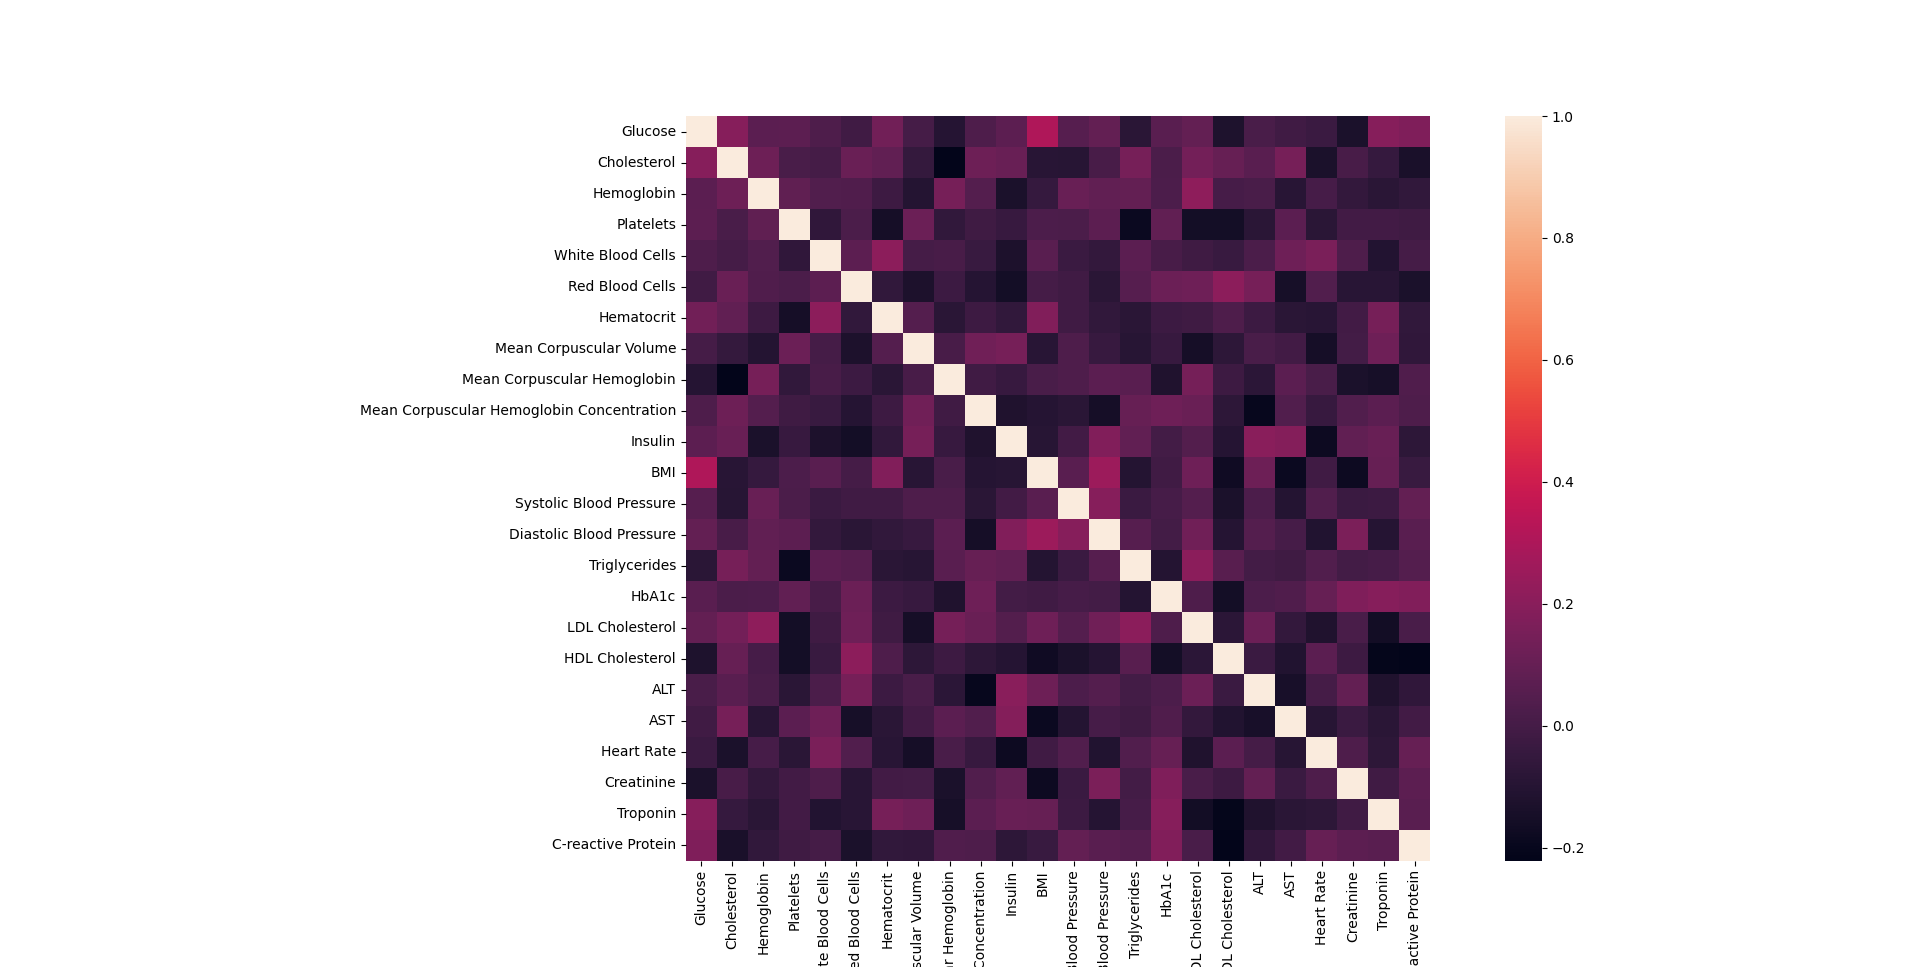
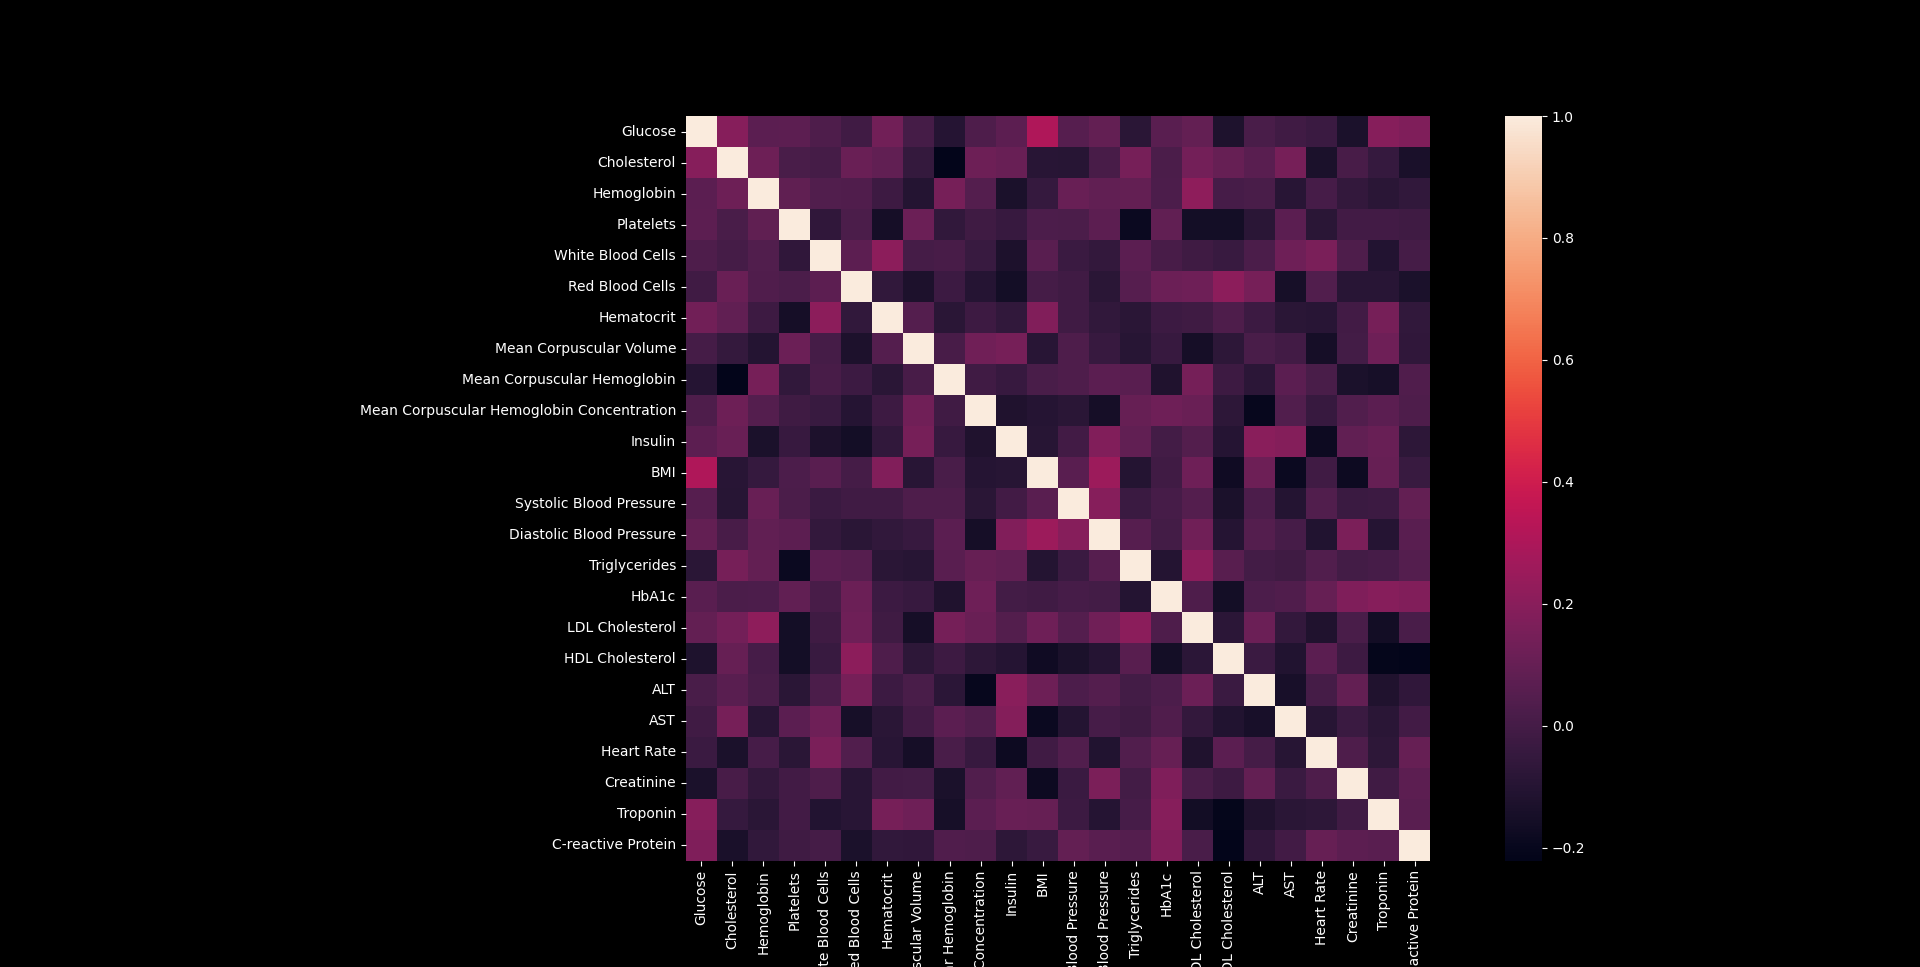
yes

diff --git a/React/my-app/src/App.css b/React/my-app/src/App.css
@@ -126,7 +126,87 @@
   30% { border-color: rgb(255, 255, 255) }
 }
 
+:root{
+  --clr-1: #53bcbd;
+  --clr-2: #65c3c4;
+  --clr-3: #75c9c2;
+  --clr-4: #86d0d0;
+  --clr-5: #9ed9d9;
+}
 
+.images img::before, .images img::after{
+  content: "";
+  position: absolute;
+  inset: 0;
+  background: var(--clr-5);
+  border-radius: inherit;
+}
+
+.button{
+  margin-left: 45%;
+  margin-top: 20px;
+  padding: 0.6em 2em;
+  border: none;
+  outline: none;
+  color: rgb(45, 192, 192);
+  font-family: 'Roboto Mono', monospace;
+  background: #111;
+  cursor: pointer;
+  position: relative;
+  z-index: 0;
+  border-radius: 10px;
+  user-select: none;
+  -webkit-user-select: none;
+  touch-action: manipulation;
+}
+
+.button:before{
+  content: "";
+  background: linear-gradient(
+    45deg,
+    var(--clr-1),
+    var(--clr-2),
+    var(--clr-3),
+    var(--clr-4),
+    var(--clr-5)
+  );
+  position: absolute;
+  top: -2px;
+  left: -2px;
+  background-size: 400%;
+  z-index: -1;
+  filter: blur(5px);
+  -webkitfilter: blur(5px);
+  width: calc(100% + 4px);
+  height: calc(100% + 4px);
+  animation: glowing-button-85 20s linear infinite;
+  transition: opacity 0.3s ease-in-out;
+  border-radius: 10px;
+}
+
+@keyframes glowing-button-85 {
+  0% {
+    background-position: 0 0;
+  }
+  50% {
+    background-position: 400% 0;
+  }
+  100% {
+    background-position: 0 0;
+  }
+}
+
+.button:after{
+  z-index: -1;
+  content: "";
+  position: absolute;
+  width: 100%;
+  height: 100%;
+  background: #222;
+  left: 0;
+  top: 0;
+  border-radius: 10px;
+}
 
 
 

diff --git a/React/my-app/src/App.js b/React/my-app/src/App.js
@@ -4,16 +4,21 @@ import React from 'react';
 import DataComponent from './components/dataComponent'
 import { ReactDOM } from 'react';
 import GraphComponent from './components/graphComponent';
+import  { useState, useEffect } from 'react';
 
 function App() {
+
+  const [show, setShow] = useState(false);
+
   return (
     <>
       <DataComponent></DataComponent>
-      <GraphComponent></GraphComponent>
+      <button onClick={() => setShow(!show)} className='button'>Reveal Graphs</button>
+      {
+        show && <GraphComponent></GraphComponent>
+      }
     </>
   );
 }
-
-
 
 export default App;

diff --git a/React/my-app/src/index.css b/React/my-app/src/index.css
@@ -6,6 +6,7 @@ body {
   -webkit-font-smoothing: antialiased;
   -moz-osx-font-smoothing: grayscale;
   background-color: black;
+  overflow-x: hidden;
 }
 
 code {

diff --git a/React/data analysis/analysis.py b/React/data analysis/analysis.py
@@ -5,6 +5,7 @@ import os
 import matplotlib.pyplot as plt
 import seaborn as sns
 import warnings
+plt.style.use('dark_background')
 
 for dirname, _, filenames in os.walk('Blood_samples_dataset_balanced_2(f).csv.zip'):
     for filename in filenames:
@@ -54,3 +55,4 @@ plt.show();
 
 sns.heatmap(x.corr(),square=True);
 plt.show();
+
